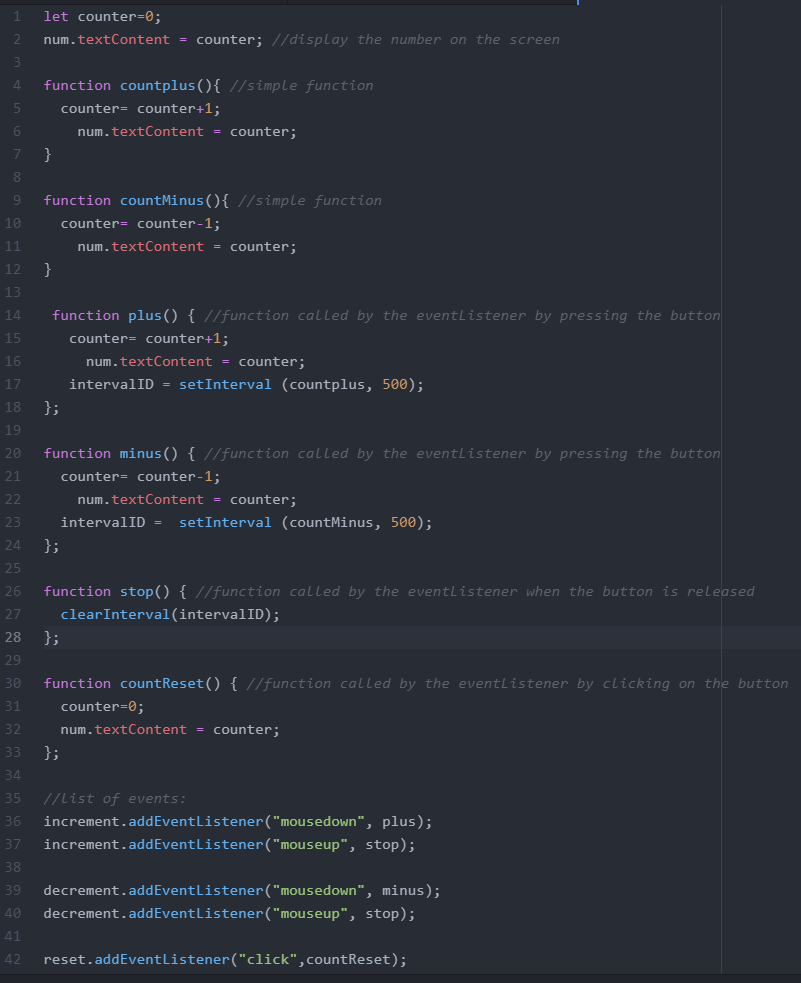
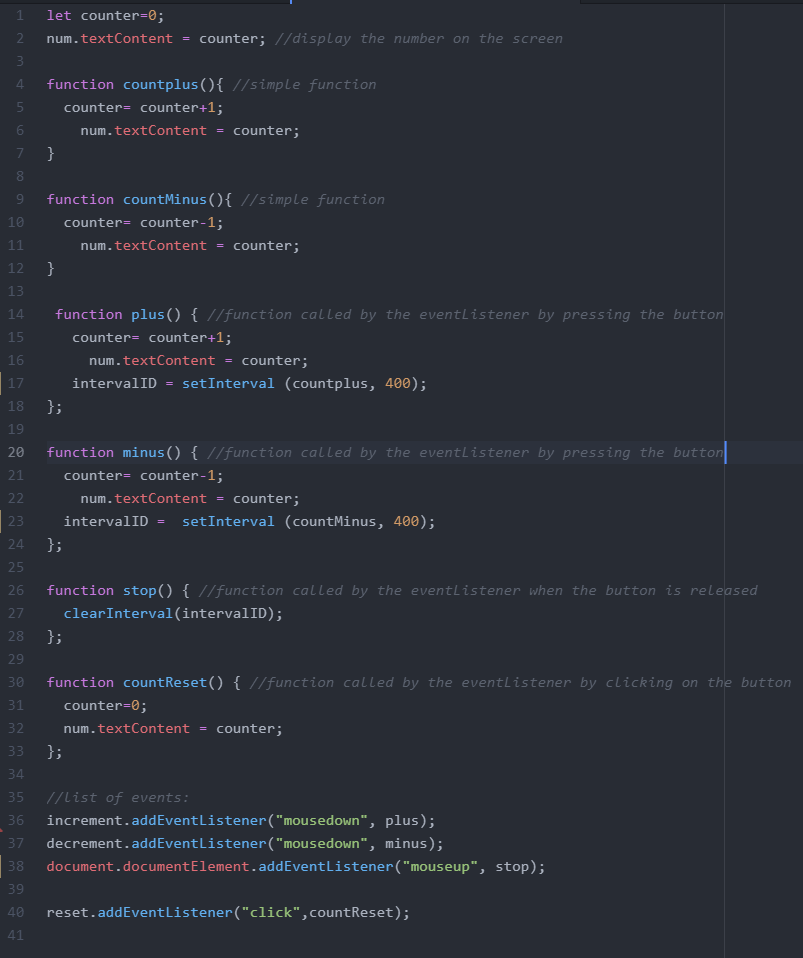
Problem fixed - infinite counting
Updated event to avoid endless counting.

diff --git a/js/counter.js b/js/counter.js
@@ -1,7 +1,7 @@
 let counter=0;
 num.textContent = counter; //display the number on the screen
 
-function countplus(){ //simple function 
+function countplus(){ //simple function
   counter= counter+1;
     num.textContent = counter;
 }
@@ -14,13 +14,13 @@ function countMinus(){ //simple function
  function plus() { //function called by the eventListener by pressing the button
    counter= counter+1;
      num.textContent = counter;
-   intervalID = setInterval (countplus, 500);
+   intervalID = setInterval (countplus, 400);
 };
 
 function minus() { //function called by the eventListener by pressing the button
   counter= counter-1;
     num.textContent = counter;
-  intervalID =  setInterval (countMinus, 500);
+  intervalID =  setInterval (countMinus, 400);
 };
 
 function stop() { //function called by the eventListener when the button is released
@@ -34,9 +34,7 @@ function countReset() { //function called by the eventListener by clicking on th
 
 //list of events:
 increment.addEventListener("mousedown", plus);
-increment.addEventListener("mouseup", stop);
-
 decrement.addEventListener("mousedown", minus);
-decrement.addEventListener("mouseup", stop);
+document.documentElement.addEventListener("mouseup", stop);
 
 reset.addEventListener("click",countReset);
